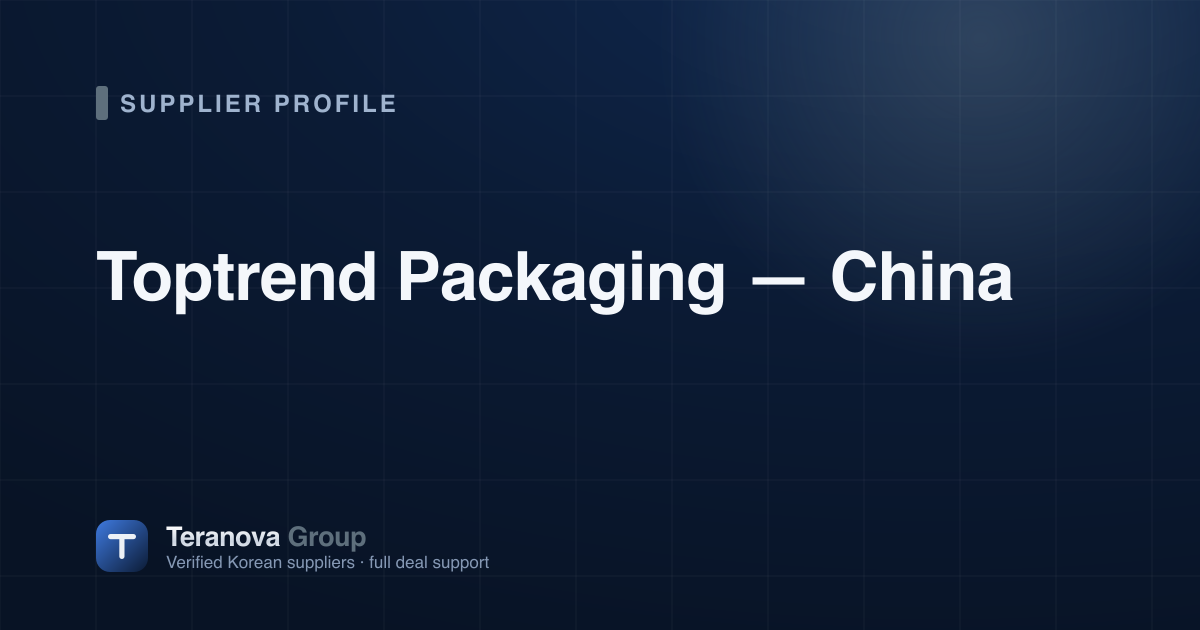
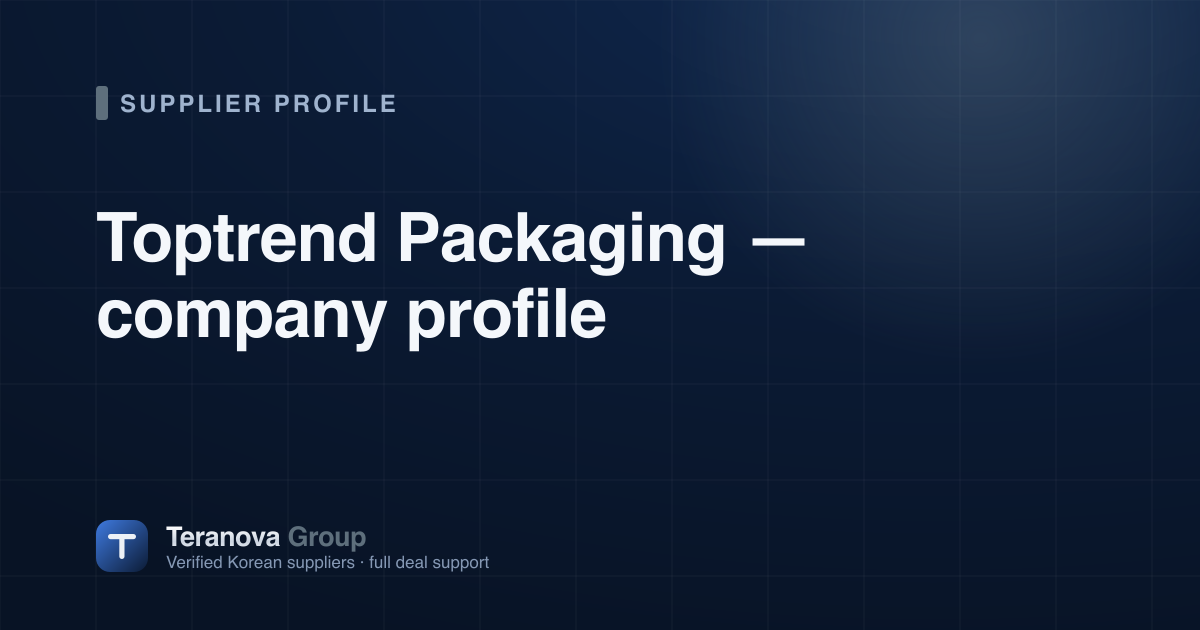
T-20261021-047: Toptrend — убрать неподтверждённую страну
Страна Toptrend держалась только на коде +86 в подписи письма —
прямого первичного источника нет. Убрана со всех поверхностей:
13 локалей (tagline, descriptor, origin, about, facts, consentNote, SEO),
OG-карточка, карточка в каталоге. Новое поле countryUnconfirmed
отключает умолчание «Корея». JSON-LD Organization берёт страну из
профиля вместо константы KR и не выводит address при неподтверждённой.

Changed region(s): [[0.0617, 0.3317, 0.8633, 0.573]]

diff --git a/src/data/suppliers.ts b/src/data/suppliers.ts
@@ -688,6 +688,10 @@ export interface SupplierProfile {
      splits by category. Omitted means Korea — that is where the platform
      started and where every supplier published before August 2026 sits. */
   country?: CountryKey;
+  /* Страна не подтверждена первичным источником (одного кода телефона мало).
+     Тогда country не задаётся, а это поле отключает умолчание «Корея»:
+     карточки каталога не показывают флаг и страну, JSON-LD — addressCountry. */
+  countryUnconfirmed?: boolean;
   name: string; // company display name (language-neutral)
   brand: string; // primary brand (language-neutral)
   status: 'visited' | 'provided';
@@ -2630,7 +2634,7 @@ export const suppliers: SupplierProfile[] = [
   {
     slug: 'toptrend',
     category: 'adjacent',
-    country: 'cn',
+    countryUnconfirmed: true,
     name: 'Toptrend Packaging',
     brand: 'Toptrend',
     status: 'provided',
@@ -2639,7 +2643,9 @@ export const suppliers: SupplierProfile[] = [
     /* Interest only: on 21.09.2026 the VP of Global Sales answered our profile
        proposal with "we are interesting for your platform" and asked which
        materials are needed. No materials and no rights to materials, so the page
-       carries only the name (company domain toptrend-pac.com) and the country.
+       carries only the name (company domain toptrend-pac.com). The country is
+       not stated: the only hint is the +86 code in the signature, and a phone
+       code does not establish where the company is (review T-20261021-047).
        Foam pumps, capacity, ISO/FDA/REACH/BRCS/SMETA and the Zhongshan legal
        name come from our own letter / the fair catalogue, not from the company,
        and are intentionally absent; so are images, prices, MOQ and contacts.

diff --git a/src/data/jsonld.ts b/src/data/jsonld.ts
@@ -147,7 +147,11 @@ export function supplierJsonLd(lang: Lang, profile: SupplierProfile) {
       alternateName: profile.brand,
       url,
       description: `${c.descriptor}. ${c.about[0] ?? ''}`,
-      address: { '@type': 'PostalAddress', addressCountry: 'KR' },
+      /* Страна из профиля; без поля — Корея (как в каталоге). Неподтверждённую
+         страну не выдумываем: address не выводится. */
+      ...(profile.countryUnconfirmed
+        ? {}
+        : { address: { '@type': 'PostalAddress', addressCountry: (profile.country ?? 'kr').toUpperCase() } }),
       brand: { '@type': 'Brand', name: profile.brand },
       makesOffer: c.lines.filter((l) => !l.planned).map((l) => ({
         '@type': 'Offer',
